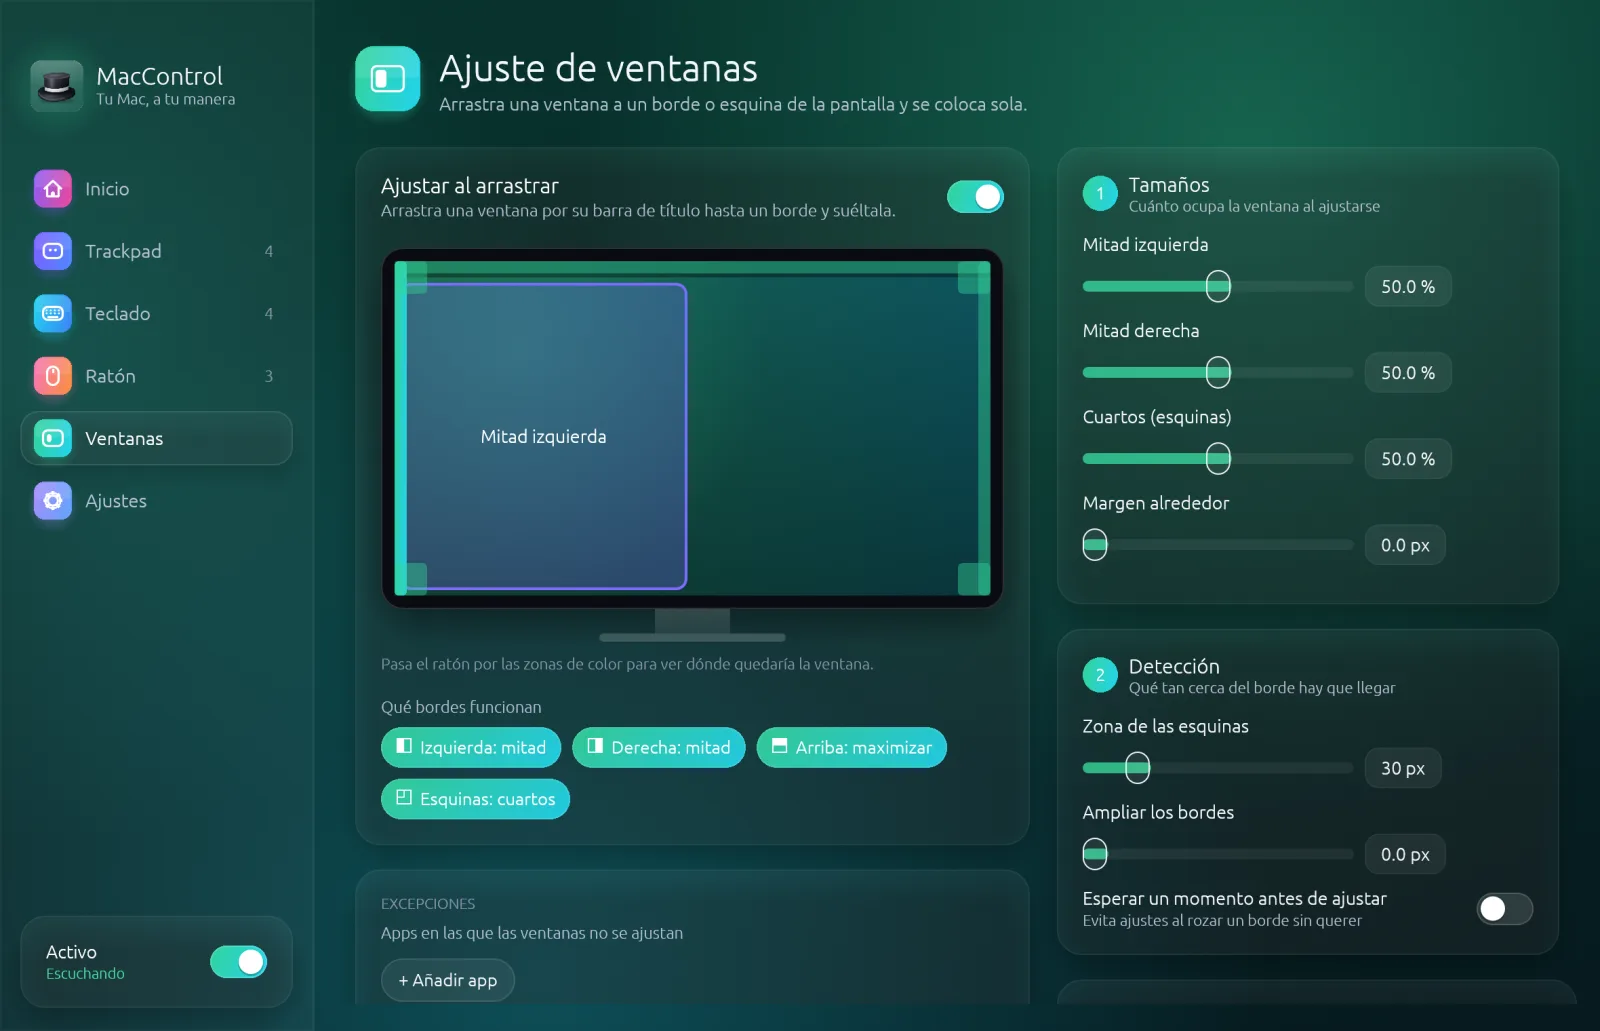
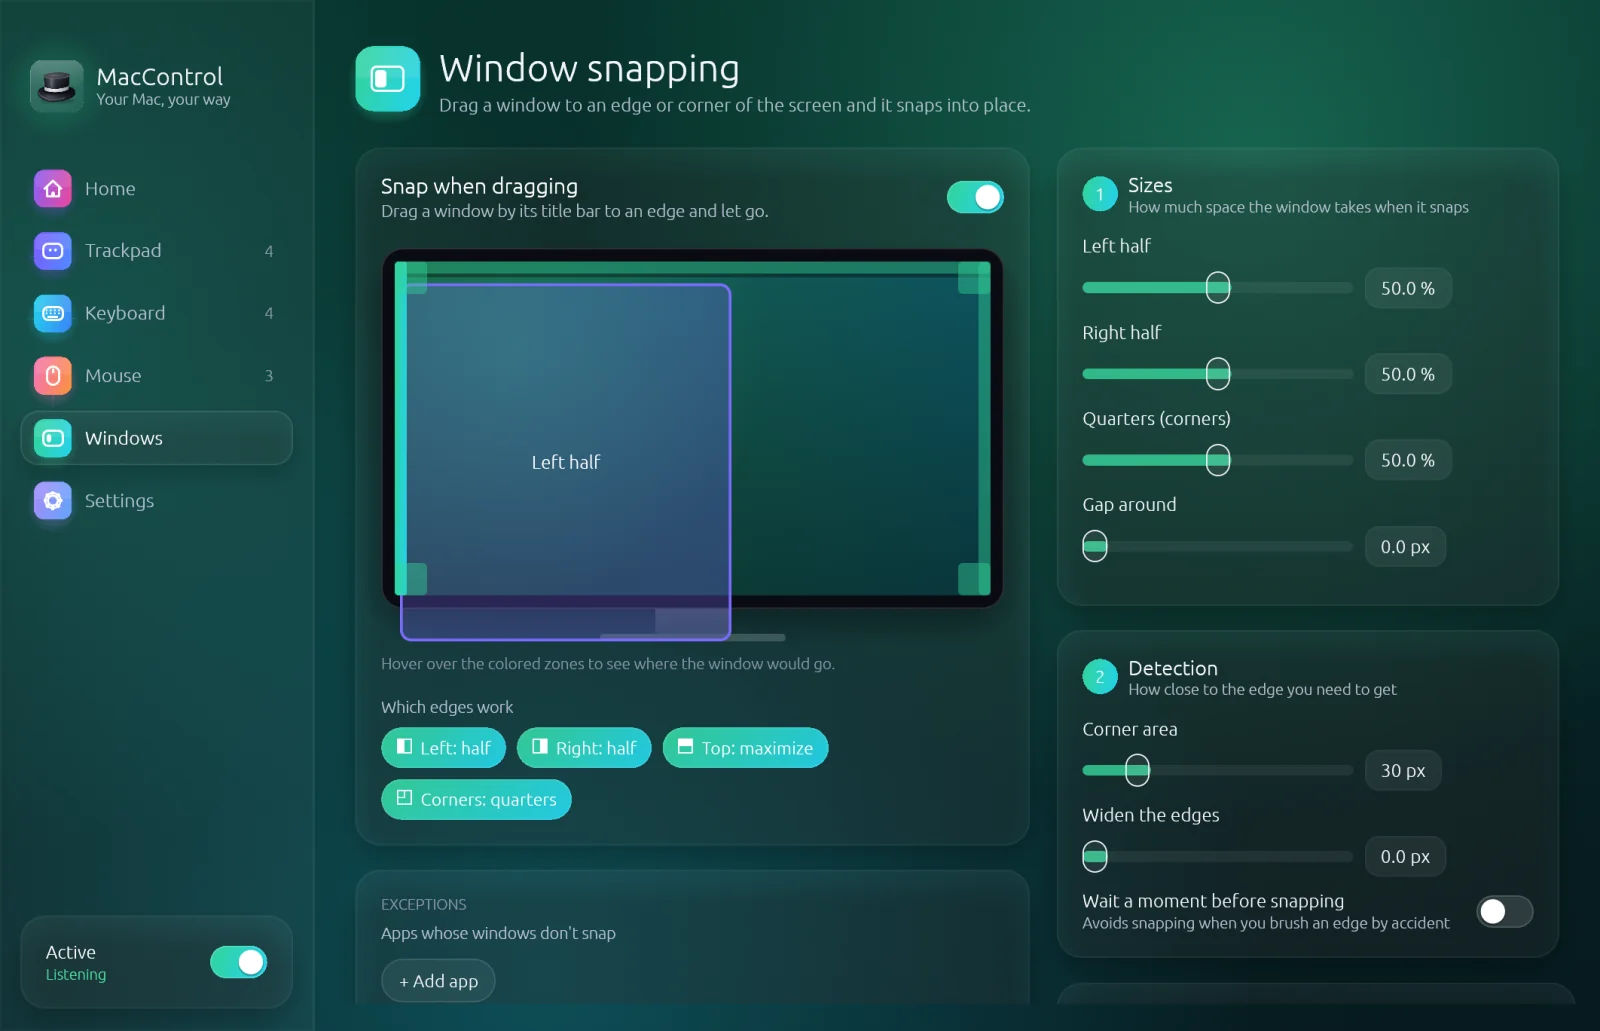
docs: localized screenshots for the website and English ones for the README
- Retake every screenshot from the 0.2.0 interface: one set per language
  in site/assets/img/screens/<lang>/ (1600 and 800 px), used by each
  language's page, gallery, JSON-LD and Open Graph image.
- docs/screenshots/ now holds the English set for the README.
- Regenerate the Open Graph images with each language's home screen.
- New --scale <n> option for --screenshot, to draw Retina-quality
  pictures on any display.

diff --git a/src/main.rs b/src/main.rs
@@ -62,10 +62,18 @@ fn main() -> eframe::Result {
         .map(PathBuf::from);
     // Which page to open on (used to picture each page).
     let page = args.iter().position(|a| a == "--page").and_then(|i| args.get(i + 1)).cloned();
+    // Pictures drawn at this many pixels per point (2 = Retina quality on any display).
+    let scale = args
+        .iter()
+        .position(|a| a == "--scale")
+        .and_then(|i| args.get(i + 1))
+        .and_then(|s| s.parse::<f32>().ok())
+        .filter(|s| screenshot.is_some() && *s >= 1.0)
+        .unwrap_or(1.0);
 
     let mut viewport = egui::ViewportBuilder::default()
         .with_title("MacControl")
-        .with_inner_size([1180.0, 760.0])
+        .with_inner_size([1180.0 * scale, 760.0 * scale])
         .with_min_inner_size([960.0, 620.0])
         .with_fullsize_content_view(true)
         .with_titlebar_shown(false)
@@ -85,5 +93,5 @@ fn main() -> eframe::Result {
             b.with_activate_ignoring_other_apps(false);
         }));
     }
-    eframe::run_native("MacControl", options, Box::new(move |cc| Ok(Box::new(ui::MacApp::new(cc, screenshot, page)))))
+    eframe::run_native("MacControl", options, Box::new(move |cc| Ok(Box::new(ui::MacApp::new(cc, screenshot, page, scale)))))
 }

diff --git a/src/ui/mod.rs b/src/ui/mod.rs
@@ -145,8 +145,11 @@ pub struct MacApp {
 }
 
 impl MacApp {
-    pub fn new(cc: &eframe::CreationContext<'_>, screenshot: Option<PathBuf>, page: Option<String>) -> Self {
+    pub fn new(cc: &eframe::CreationContext<'_>, screenshot: Option<PathBuf>, page: Option<String>, scale: f32) -> Self {
         theme::apply(&cc.egui_ctx);
+        if scale != 1.0 {
+            cc.egui_ctx.set_zoom_factor(scale);
+        }
         let eng = engine();
         let _ = eng.ctx.set(cc.egui_ctx.clone());
         let start = match page.as_deref() {

diff --git a/site/README.md b/site/README.md
@@ -36,7 +36,7 @@ Change `siteUrl` in `config.mjs` and add a `static/CNAME` file containing the do
 
 - Strings: `i18n/<lang>.mjs`. All files have the same keys.
 - Markup: `src/template.mjs`. Styles: `src/styles.css`. Behaviour: `src/main.js` (consent, menus, language suggestion, reveal on scroll, the window-snapping demo and the screenshot lightbox). Icons: `src/icons.mjs`.
-- Screenshots: WebP copies of `docs/screenshots/` at 1600 and 800 px wide in `assets/img/screens/`. To refresh them, run the app with `--screenshot <file.png> --page <name>` (see the main README), convert with `cwebp`, and run `og.mjs` again.
+- Screenshots: one set per language, at 1600 and 800 px wide, in `assets/img/screens/<lang>/` (the English set is also in `docs/screenshots/` for the main README). To refresh them, run the app with `MACCONTROL_LANG=<lang> maccontrol --screenshot <file.png> --page <name> --scale 1.8` (see the main README), convert with `cwebp -q 85 -resize 1600 0` (and `800 0`), and run `og.mjs` again.
 - Fonts: Bricolage Grotesque, Figtree and JetBrains Mono, self-hosted (SIL Open Font License).
 
 To add a language, copy `i18n/en.mjs`, translate it, add a flag in `assets/flags/`, add the code to `languages` in `config.mjs` and run `node site/scripts/og.mjs`.

diff --git a/README.md b/README.md
@@ -100,7 +100,7 @@ Without the certificate from `setup-signing.sh`, every build gets a new ad-hoc s
 
 ### Screenshots of the app
 
-`maccontrol --screenshot <file.png> --page <home|trackpad|keyboard|mouse|snapping|settings>` opens the window with sample rules, saves a picture of it and quits. It doesn't read or change your settings. Set `MACCONTROL_LANG=en|es|ca` to pick the language.
+`maccontrol --screenshot <file.png> --page <home|trackpad|keyboard|mouse|snapping|settings>` opens the window with sample rules, saves a picture of it and quits. It doesn't read or change your settings. Set `MACCONTROL_LANG=en|es|ca` to pick the language, and add `--scale <n>` to draw it at `n` pixels per point (for example `--scale 1.8` for Retina-quality pictures on any display; the window can't be taller than the screen).
 
 ### Translations
 
